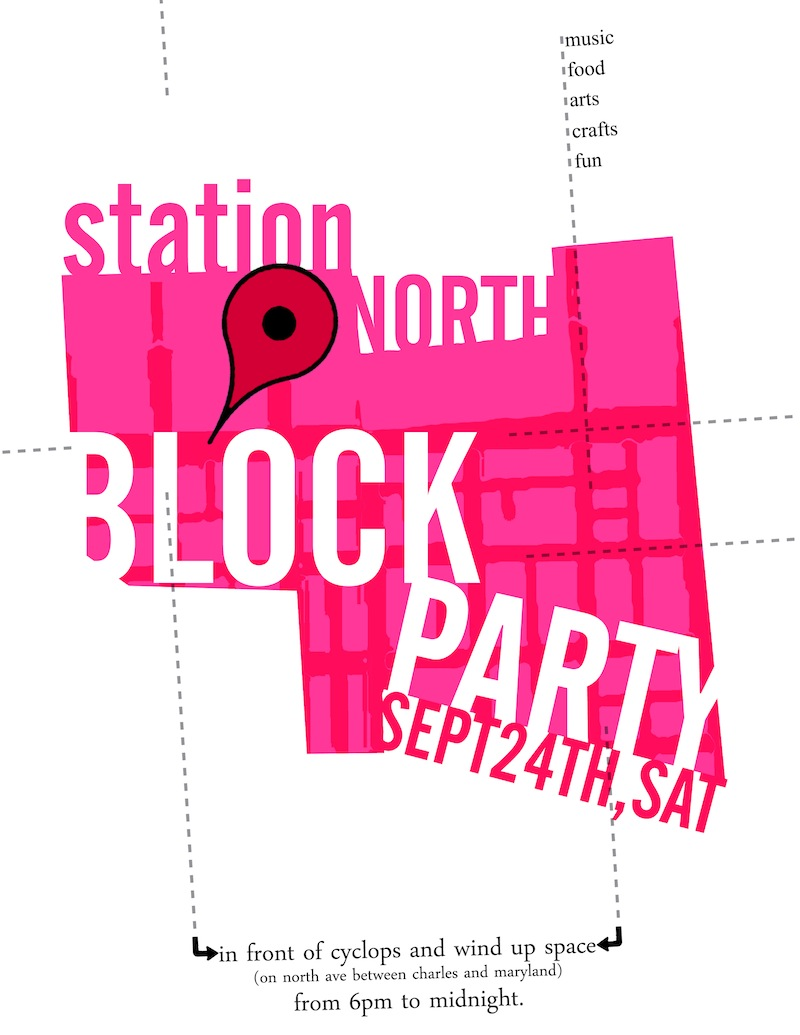
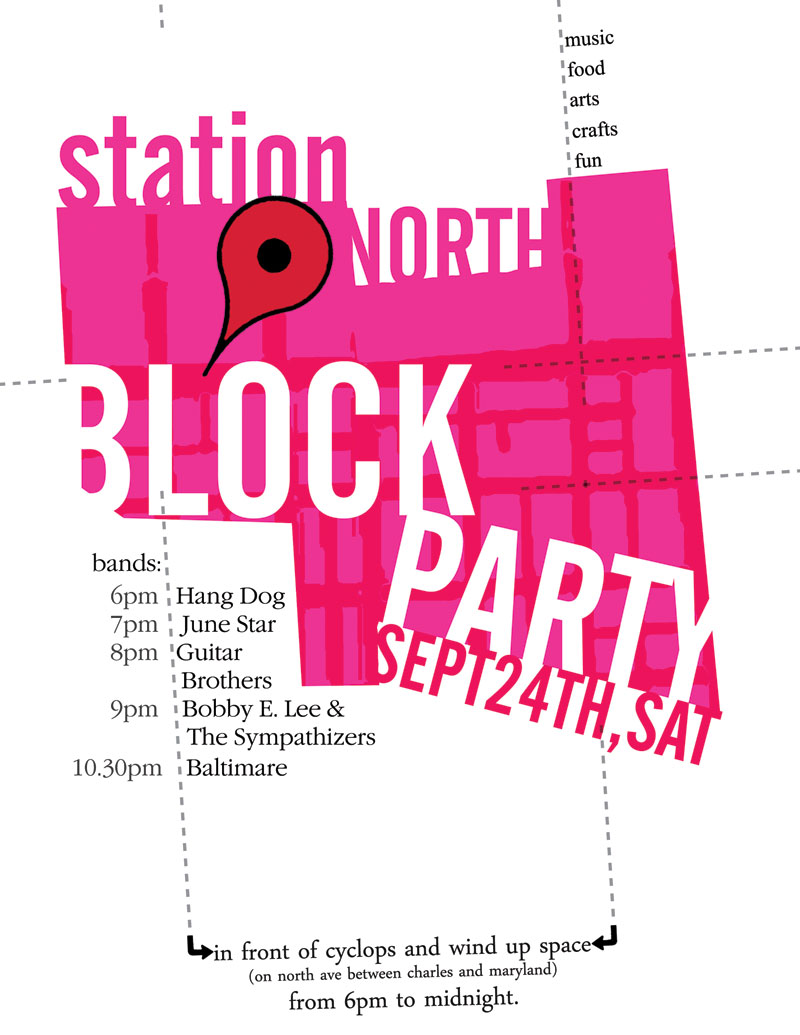
block party

diff --git a/index.html b/index.html
@@ -10,27 +10,27 @@ description: Betascape is a weekend of Art and Technology in Baltimore MD. Come 
 
 overview:
   - day: Friday&nbsp;Night
-    what: <a href="http://outletbaltimore.tumblr.com/" target="_blank">Outlet Baltimore</a> Relaunch Party, 6pm @ <a href="http://thewindupspace.com/" target="_blank">Windup Space</a>
+    what: <a href="http://outletbaltimore.tumblr.com/" target="_blank">Outlet Baltimore</a> Relaunch Party, 6pm @ <a href="http://thewindupspace.com/" target="_blank">Windup Space</a>.
   - day: Friday&nbsp;Night
-    what: <a href="http://www.literaturepartybaltimore.info/" target="_blank">Literature Party</a> by Publishing Genius, 8pm @ <a href="http://themetrogallery.net/" target="_blank">Metro Gallery</a>
+    what: <a href="http://www.literaturepartybaltimore.info/" target="_blank">Literature Party</a> by Publishing Genius, 8pm @ <a href="http://themetrogallery.net/" target="_blank">Metro Gallery</a>.
   - day: Saturday&nbsp;Day
     what: Lectures, conversations and workshops.
   - day: Saturday&nbsp;Night
-    what: <a href="/blockparty.html">Station North Block Party</a> from 6pm featuring bands and Baltimore's Food Trucks.
+    what: <a href="/blockparty.html">Station North Block Party</a> from 6pm featuring bands <em>Baltimare</em> and <em>Bobby E. Lee &amp; The Sympathizers</em> and Baltimore's Food Trucks. Plus <a target="_blank" href="http://bytenyte.com/?p=291">Byte Nyte</a>! Live 8-bit music and visuals at the Hour Haus.
   - day: Sunday
-    what: CreateCamp is a mini-hackathon, with to get people experimenting and collaborating after spending the day before learning
+    what: CreateCamp is a mini-hackathon, with to get people experimenting and collaborating after spending the day before learning.
 
 sponsors:
   logo:
+    - name: Intridea
+      site: http://intridea.com
+      logo: intridea-logo.png
     - name: Mind Grub
       site: http://www.mindgrub.com
       logo: mindgrublogo.png
     - name: Zynga
       site: http://www.zynga.com
       logo: zyngalogo.png
-    - name: Intridea
-      site: http://intridea.com
-      logo: intridea-logo.png
   nologo:
     - name: Figure 53
       site: http://www.figure53.com

diff --git a/schedule2011.html b/schedule2011.html
@@ -88,11 +88,11 @@ $(function(){
 	
 	<h2 class="saturday_pm">Saturday Night</h2>
 	<div class="saturday_pm">
-		<header><h3>Station North Block Party</h3></header>
+		<header><h3><a href="/blockparty.html">Station North Block Party</a></h3></header>
 		<p>After your day of learning &amp; listening, come relax or even rock out at the Station North Music Festival. This event is free and open to the public.</p> 
 		
 		<header><h3><a href="http://bytenyte.com/?p=291">Byte Nyte</a></h3></header>
-		<p>See live  8-bit music and visuals on September, 2011 live at the Hour Haus for Betascape 2011.  This is a FREE SHOW. All ages show. Open Mic at 6 PM. Music by Temp Sound Solutions (BAL), Inverse Phase (VA) , Forever The Win (VA), Companion (MD) and DJ Cats (DC).  Visuals by Pixelseed (BAL). There will be a special musical guest from Betascape.</p>
+		<p>See live 8-bit music and visuals at the Hour Haus for Betascape 2011.  This is a FREE SHOW. All ages show. Open Mic at 6 PM. Music by Temp Sound Solutions (BAL), Inverse Phase (VA) , Forever The Win (VA), Companion (MD) and DJ Cats (DC).  Visuals by Pixelseed (BAL). There will be a special musical guest from Betascape.</p>
 		
 		<p>Open Mic is first come first serve!</p>
 
